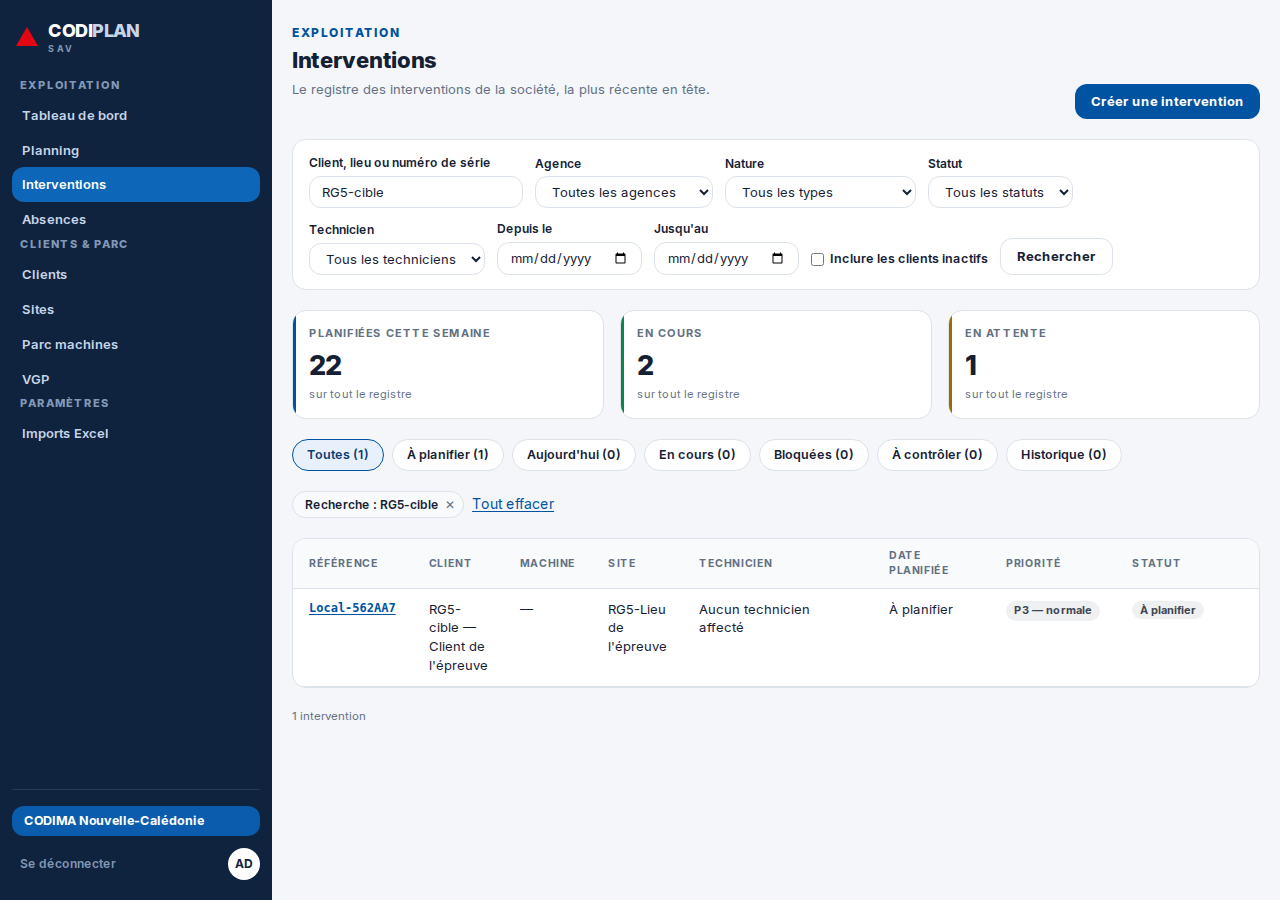
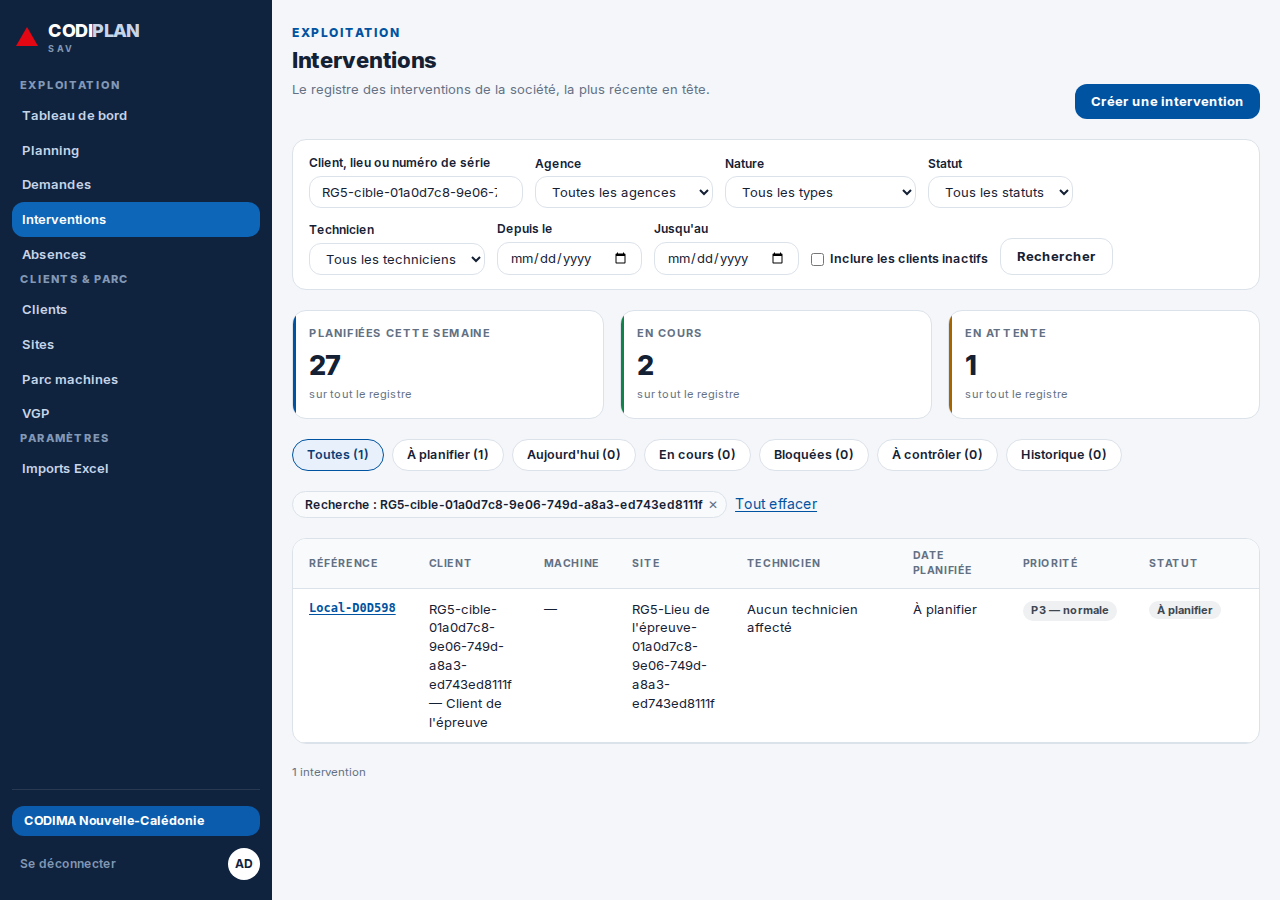
94-DEMANDES-3-REPRISE — passation
Fusion de 89-DEMANDES-3-garde, correction de registre-5.spec.ts, et
pnpm verify:full rejoué en entier et vert (unitaires, isolation,
build, fériés, partitions, e2e complet 274/274). Capture de
88-REGISTRE-5 régénérée avec le texte de recherche désormais unique
par exécution.

diff --git a/docs/propositions/94-DEMANDES-3-REPRISE/passation.md b/docs/propositions/94-DEMANDES-3-REPRISE/passation.md
@@ -1,0 +1,103 @@
+# 94-DEMANDES-3-REPRISE — passation
+
+## Ce que j'ai changé (et ce que ça change pour l'exploitation)
+
+1. **Fusion de `89-DEMANDES-3-garde`** dans `main` : « Demandes » entre au
+   menu (écart nommé D133), avec le bouton « Créer une intervention » sur
+   `/demandes` et l'épreuve `tests/e2e/demandes-3.spec.ts`. Fusion propre
+   (`git merge`, pas de conflit) — pour l'exploitation, rien de nouveau par
+   rapport à ce que `89-DEMANDES-3` décrivait déjà dans sa propre
+   passation (conservée telle quelle sous
+   `docs/propositions/89-DEMANDES-3/passation.md`).
+2. **`tests/e2e/registre-5.spec.ts`** : le texte recherché (et le libellé
+   du client cible qui doit le contenir) porte désormais un suffixe tiré
+   au sort **par exécution** (`uuidv7()`), composé à partir de la clé i18n
+   `registre5.e2e.texte_recherche` — jamais un littéral. Pour
+   l'exploitation, rien ne change à l'écran ; ce qui change, c'est que la
+   scène d'une exécution ne peut plus jamais être confondue avec celle
+   d'une exécution précédente restée en base (`afterAll` non joué, base de
+   test non réinitialisée entre deux lancements de `playwright test`).
+3. Je n'ai touché à aucune ligne de `tests/e2e/
+   parcours-creer-puis-planifier.spec.ts` : voir « Ce que j'ai tranché ».
+
+## Ce que j'ai mesuré
+
+- **AVANT** (constat du 25/09 16h26, non rejoué ici — je pars de sa
+  description) : `tests/e2e/registre-5.spec.ts:161` — `table tbody tr`
+  attendu 1, trouvait 2 pour `?q=RG5-cible` (texte fixe, ligne restée
+  d'une exécution précédente).
+- **APRÈS**, mesuré :
+  - `registre-5.spec.ts` seul, **rejoué deux fois de suite** (chaque
+    lancement reconstruit la base via le setup global) : **2/2 tests
+    passés les deux fois** — `table tbody tr` trouve bien 1 ligne, la
+    scène étant désormais nommée par un texte unique à l'exécution.
+  - `parcours-creer-puis-planifier.spec.ts` seul, **rejoué trois fois de
+    suite** : **3/3 tests passés les trois fois** (51,7 s / 49,8 s /
+    51,8 s) — jamais rouge, donc non touché (règle du ticket : « s'il
+    reste vert, écris-le et n'y touche pas »).
+  - `pnpm typecheck` : vert, aussitôt après la fusion.
+  - `pnpm test` (unitaires) : **2843 tests passés** sur 264 fichiers.
+  - `pnpm verify:full` **en entier, en un seul appel, au premier plan**
+    (`CI=1`) : **vert de bout en bout** — format, typecheck, lint, 2843
+    tests unitaires, 1239 tests d'isolation, build de production,
+    `feries:horizon`, `audit:partitions`, et **la suite e2e complète :
+    274 tests passés, 3 skips préexistants et nommés (hors de ce lot,
+    dans `tests/e2e/tous-les-ecrans-rendent.spec.ts`), zéro échec**. Les
+    deux épreuves ciblées par ce ticket sont vertes à l'intérieur de cette
+    même exécution complète, sous `fullyParallel`.
+
+## Ce que j'ai tranché, et pourquoi
+
+- **`parcours-creer-puis-planifier.spec.ts` n'a reçu aucune modification.**
+  Rejoué seul trois fois (3/3 vert) puis à l'intérieur de la suite
+  complète (vert), il n'a jamais rougi dans cette session. Le ticket est
+  explicite : « s'il reste vert, écris-le dans la passation et n'y touche
+  pas ». Je n'ai donc pas cherché de cause UTC+11 à corriger — il n'y a
+  rien à diagnostiquer sur une épreuve qui n'a pas échoué ici.
+- **Le mécanisme d'unicité de `registre-5.spec.ts`** : un suffixe
+  `uuidv7()` composé avec la clé i18n plutôt qu'un littéral ajouté à côté.
+  `CLIENT_CIBLE_RAISON` est dérivé par `String.replace` du texte de
+  `registre5.e2e.client_cible`, en y substituant le texte de recherche
+  unique — ce qui préserve automatiquement la propriété exigée par
+  l'épreuve (`client_cible` contient `texte_recherche` en sous-chaîne,
+  `client_autre` ne le contient jamais) sans dupliquer le reste du
+  libellé (« — Client de l'épreuve ») en un second littéral dans le
+  fichier de test.
+- **Aucune assertion modifiée** dans `registre-5.spec.ts` : le témoin
+  « exactement 1 » (ligne 171) est resté à l'identique, seule la donnée
+  cherchée a changé de valeur.
+
+## Ce que je n'ai pas fait
+
+- Aucune migration, aucune ligne de semis, aucun prix.
+- Aucun `skip`/`fixme`, aucun `retries`, aucun `workers: 1` ajouté — la
+  configuration e2e existante (`workers: 1` déjà présent dans
+  `playwright.config.ts`) n'a pas été touchée.
+- Je n'ai rien changé dans `depot/` ni dans `11-FILE.sh`.
+- Je n'ai pas cherché ni corrigé de cause UTC+11 dans
+  `parcours-creer-puis-planifier.spec.ts` : hors mandat, l'épreuve n'a
+  jamais rougi (voir « Ce que j'ai tranché »).
+- Je n'ai pas relu `registre-2.spec.ts` ni d'autres épreuves du registre
+  au-delà de `registre-5.spec.ts`, hors périmètre du ticket.
+
+## Les pièges pour la session suivante
+
+- **La base de test locale n'est pas réinitialisée entre deux lancements
+  de `playwright test`** : seules les migrations manquantes sont
+  appliquées et le semis est rejoué par-dessus (`db.seed` ignore les
+  lignes déjà présentes). Toute épreuve qui pose une scène propre doit
+  donc soit nommer ses données de façon unique par exécution (le geste
+  posé ici), soit garantir que son `afterAll` nettoie même en cas
+  d'échec — sinon une exécution interrompue laisse une trace qui peut
+  fausser la suivante.
+- `CLIENT_CIBLE_RAISON` est **dérivé par substitution de chaîne**, pas
+  recomposé à la main : si `registre5.e2e.client_cible` change de forme
+  dans `lib/i18n/fr.ts` au point de ne plus contenir exactement
+  `registre5.e2e.texte_recherche` comme sous-chaîne, `.replace()` ne
+  remplacera rien et le témoin « exactement 1 » redeviendra faux — sans
+  message d'erreur explicite avant l'échec de l'assertion elle-même.
+
+## Ce qui reste à faire
+
+- Rien d'identifié dans le périmètre de ce ticket. `pnpm verify:full`
+  est vert de bout en bout, fusion comprise.
